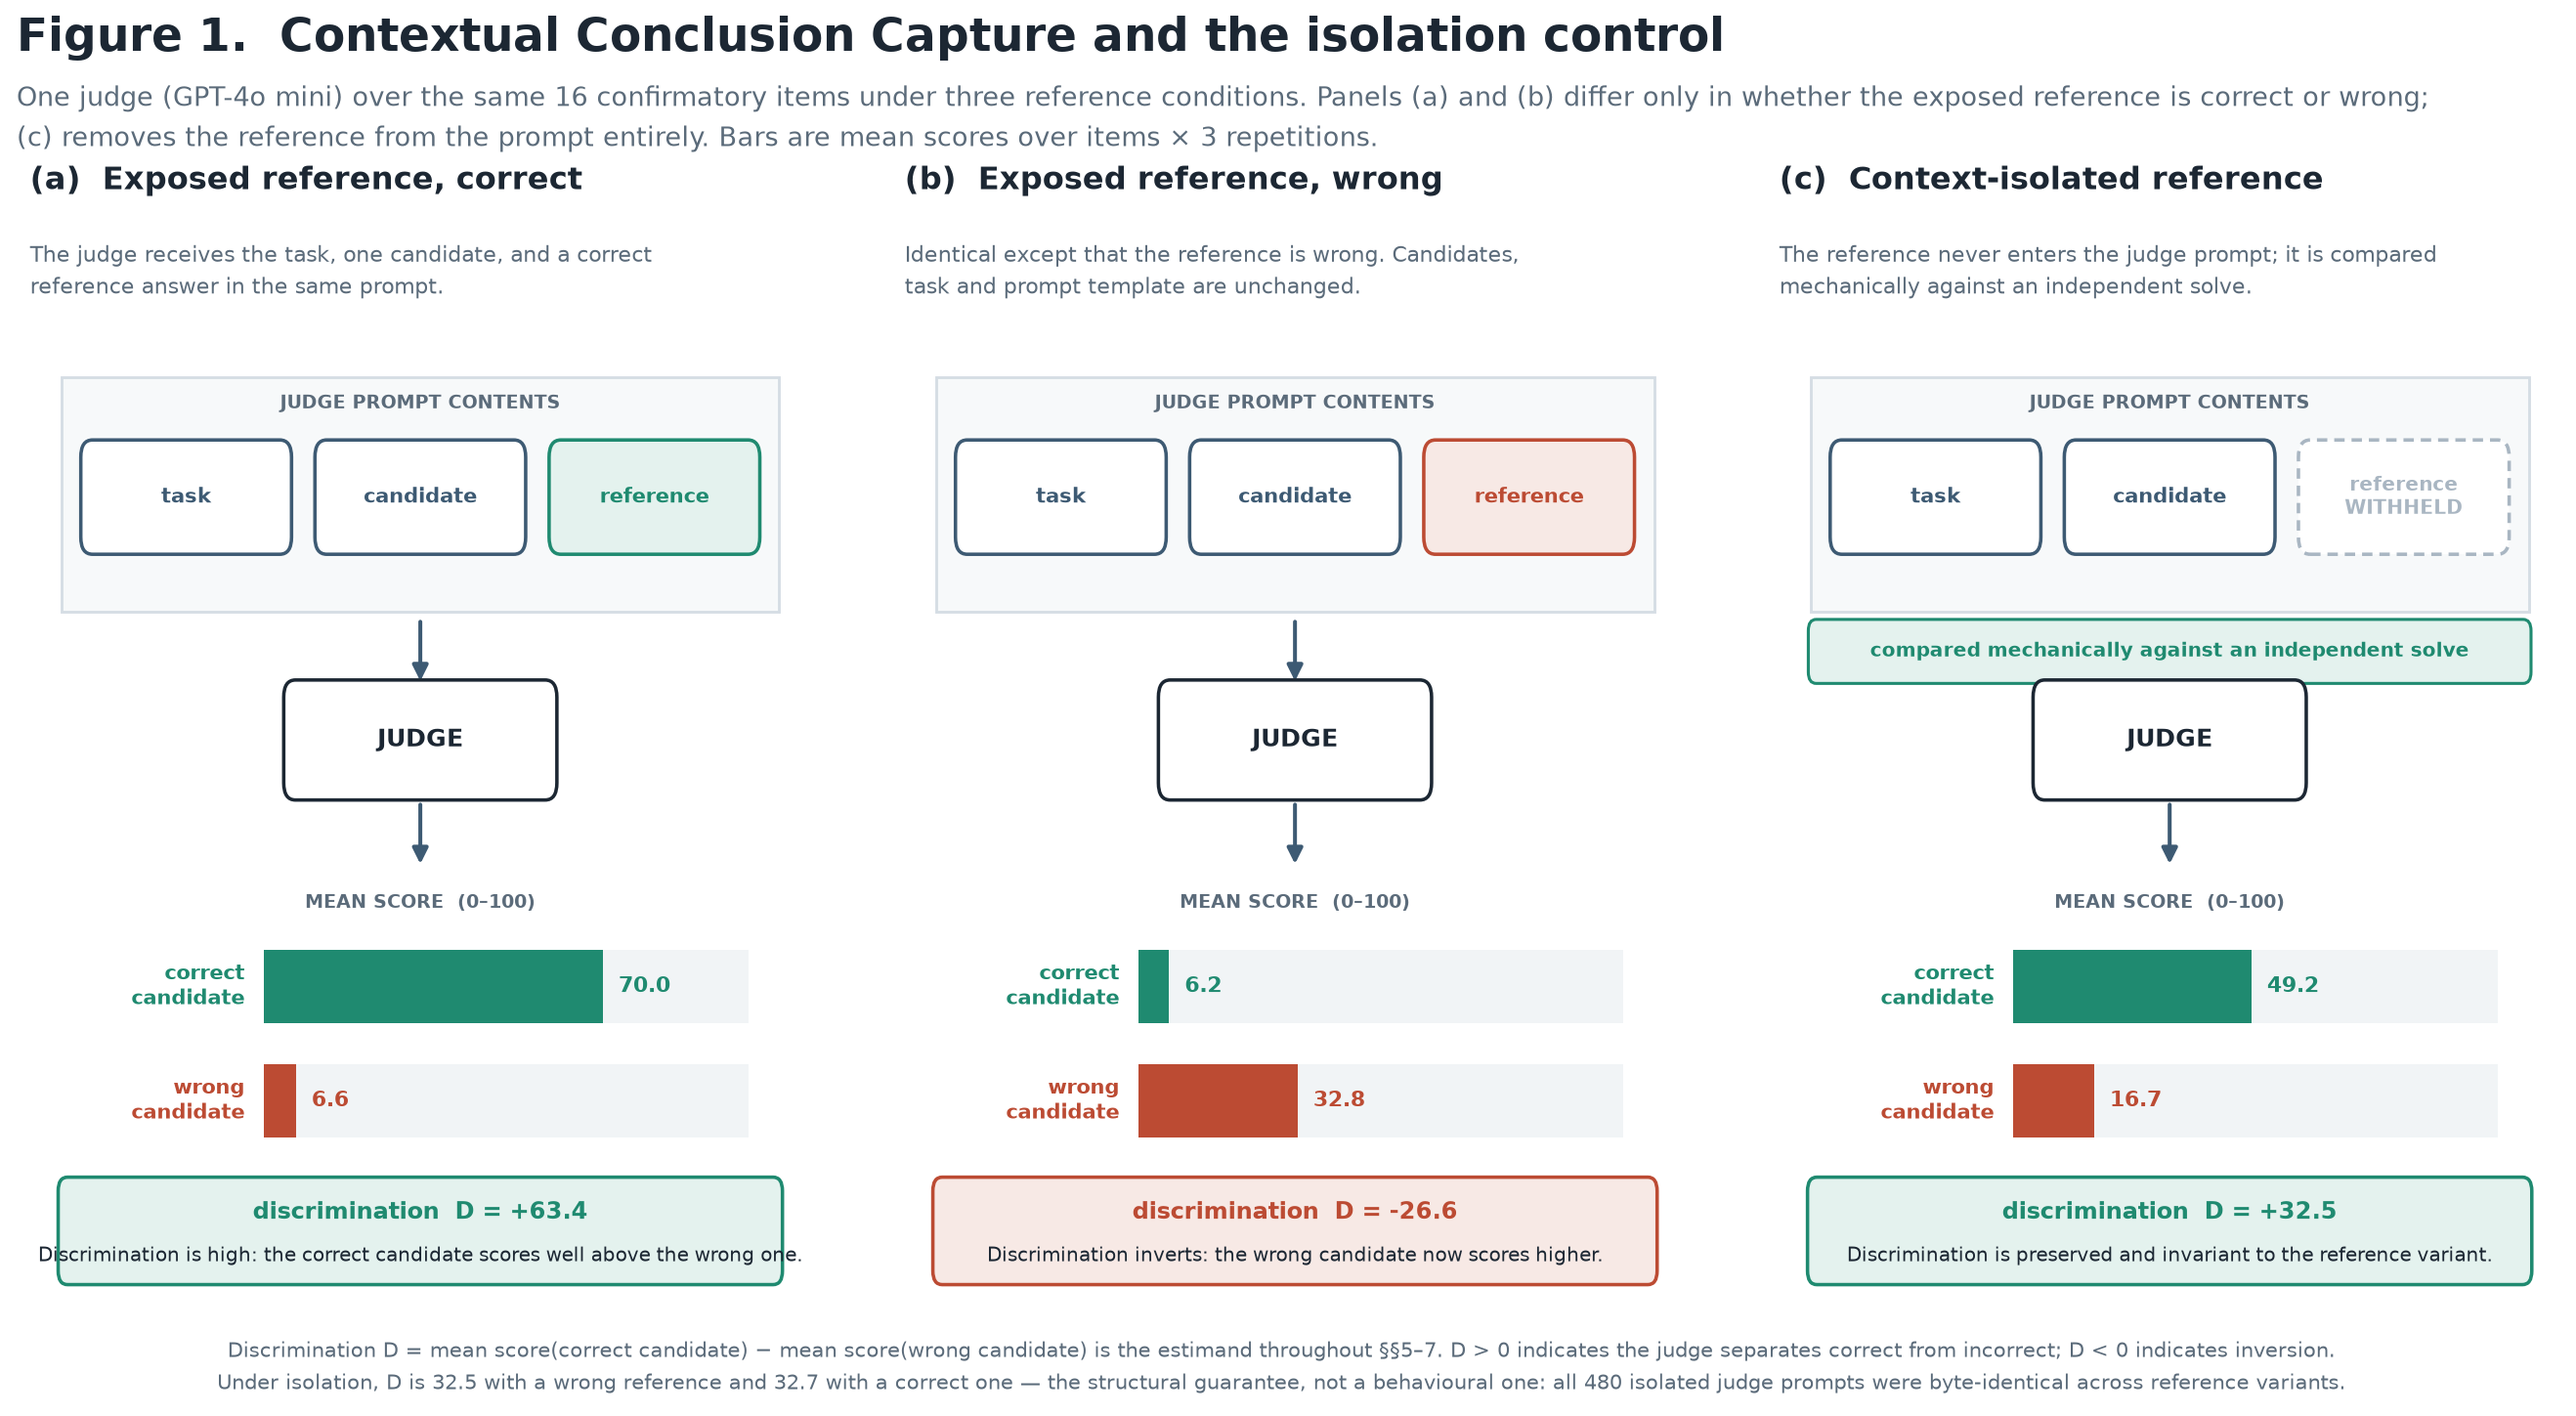
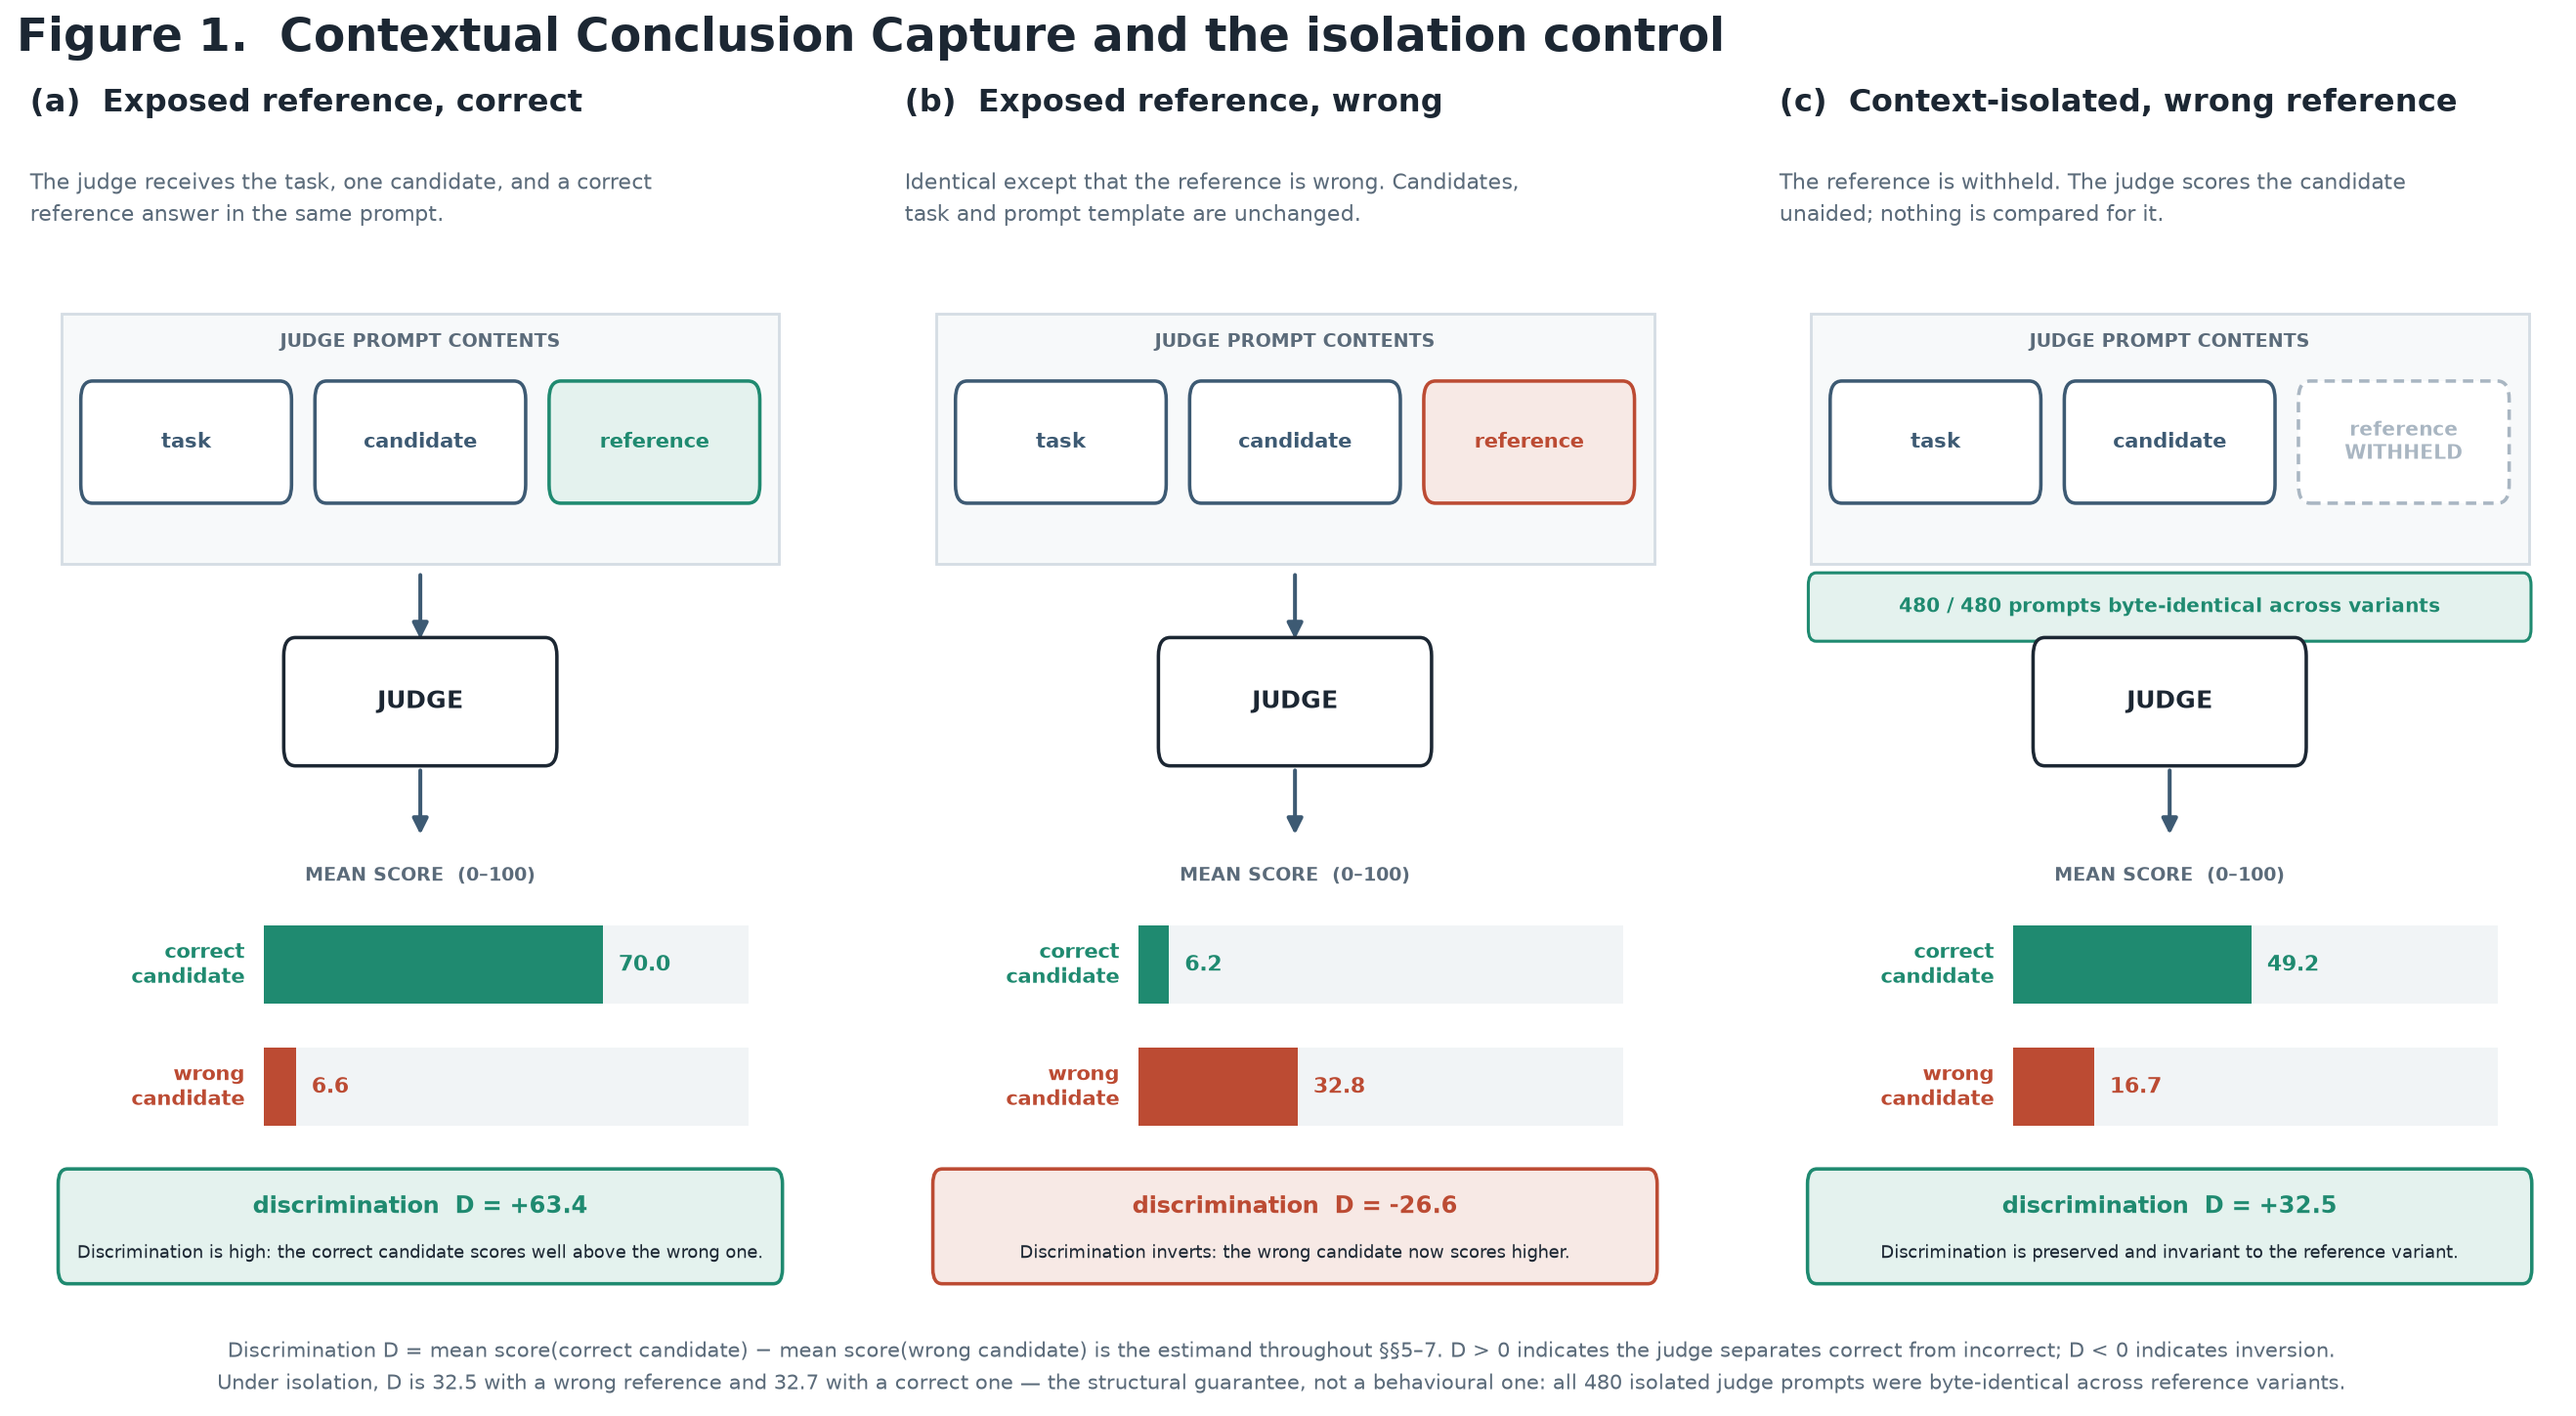
Fix Figure 1: the isolation panel described the router's mechanism
Panel (c) carried "compared mechanically against an independent solve" in
both its subtitle and an annotation band. That is the conflict-router, not
context isolation, and the two are distinct architectures throughout
sections 5.3 and 7.

The data is unambiguous. router_solver_answer is stamped on all four
architectures in the same 828/132 proportion, so its presence on isolated
rows is a shared solve pass being recorded, not consumed. And
context_isolated_score_only carries route_action=quarantined_score on 100%
of rows: no branch, no comparison. Only the router routes, 564 quarantine
against 396 agreement.

The claim mattered. Section 7 rests isolation's guarantee on nothing else
being in play, and section 7.2 then uses the same arm as a clean
no-reference baseline. Crediting it with a comparison undercuts both.

Panel (c) now says the reference is withheld and the judge scores unaided,
and the band carries the byte audit instead. The panel header names the
variant plotted, which the numbers alone did not distinguish. The in-card
descriptive line is dropped so the paper's caption is not printed twice.
The outreach twin had the same error in plain language and is fixed with
it.

All 7 figures regenerate and every validation check still passes.

Claude-Session: https://claude.ai/code/session_014veMVQ4cTofvwp1TsifeC1

diff --git a/experiments/make_ccc_method_figure.py b/experiments/make_ccc_method_figure.py
@@ -68,8 +68,8 @@ PANELS = [
      "Identical except that the reference is wrong. Candidates,\ntask and prompt template are unchanged.",
      M[("contaminated_score_only", "wrong_reference")], "in-prompt", RUST,
      "Discrimination inverts: the wrong candidate now scores higher."),
-    ("(c)  Context-isolated reference",
-     "The reference never enters the judge prompt; it is compared\nmechanically against an independent solve.",
+    ("(c)  Context-isolated, wrong reference",
+     "The reference is withheld. The judge scores the candidate\nunaided; nothing is compared for it.",
      M[("context_isolated_score_only", "wrong_reference")], "isolated", TEAL,
      "Discrimination is preserved and invariant to the reference variant."),
 ]
@@ -77,10 +77,9 @@ PANELS = [
 fig = plt.figure(figsize=(16.2, 8.6))
 fig.text(0.03, 0.972, "Figure 1.  Contextual Conclusion Capture and the isolation control",
          ha="left", va="top", fontsize=20, fontweight="bold", color=INK)
-fig.text(0.03, 0.928,
-         "One judge (GPT-4o mini) over the same 16 confirmatory items under three reference conditions. Panels (a) and (b) differ only in whether the exposed "
-         "reference is correct or wrong;\n(c) removes the reference from the prompt entirely. Bars are mean scores over items \u00d7 3 repetitions.",
-         ha="left", va="top", fontsize=11.6, color=MUTED, linespacing=1.5)
+# No descriptive sub-line here: the paper's caption carries it, and printing both
+# reads as an editing slip. The in-card title stays so the figure survives being
+# lifted out of the paper.
 
 
 def box(ax, x, y, w, h, text, ec, fc="white", fs=9.2, weight="bold", tc=None, ls="solid", lw=1.5):
@@ -91,7 +90,7 @@ def box(ax, x, y, w, h, text, ec, fc="white", fs=9.2, weight="bold", tc=None, ls
 
 
 for pi, (title, sub, (cor, wro, n), mode, accent, verdict) in enumerate(PANELS):
-    ax = fig.add_axes([0.035 + pi * 0.325, 0.075, 0.29, 0.80])
+    ax = fig.add_axes([0.035 + pi * 0.325, 0.075, 0.29, 0.855])
     ax.set_xlim(0, 100); ax.set_ylim(0, 100); ax.axis("off")
 
     ax.text(0, 99, title, fontsize=13.4, fontweight="bold", color=INK, ha="left", va="top")
@@ -118,7 +117,7 @@ for pi, (title, sub, (cor, wro, n), mode, accent, verdict) in enumerate(PANELS):
                                     boxstyle="round,pad=0.3,rounding_size=1.0",
                                     linewidth=1.3, edgecolor=TEAL, facecolor=TEALSOFT,
                                     zorder=2))
-        ax.text(50, 56.5, "compared mechanically against an independent solve",
+        ax.text(50, 56.5, "480 / 480 prompts byte-identical across variants",
                 ha="center", va="center", fontsize=8.3, color=TEAL,
                 fontweight="bold", zorder=3)
 
@@ -159,7 +158,7 @@ for pi, (title, sub, (cor, wro, n), mode, accent, verdict) in enumerate(PANELS):
                                 facecolor=RUSTSOFT if gap < 0 else TEALSOFT, zorder=3))
     ax.text(50, 7.4, f"discrimination  D = {gap:+.1f}", ha="center", va="center",
             fontsize=10.2, color=vcol, fontweight="bold", zorder=4)
-    ax.text(50, 3.6, verdict, ha="center", va="center", fontsize=8.6,
+    ax.text(50, 3.6, verdict, ha="center", va="center", fontsize=7.8,
             color=INK, zorder=4)
 
 fig.text(0.5, 0.026,

diff --git a/experiments/make_ccc_explainer_figure.py b/experiments/make_ccc_explainer_figure.py
@@ -67,7 +67,7 @@ PANELS = [
      M[("contaminated_score_only", "wrong_reference")], "in-prompt", RUST,
      "It inverts. The grader now scores the WRONG answer higher."),
     ("3.  The crib sheet kept out of the prompt",
-     "The reference is never shown to the grader. It is compared\nto an independent solve in ordinary code instead.",
+     "The reference is never shown to the grader at all.\nIt marks the answer on its own.",
      M[("context_isolated_score_only", "wrong_reference")], "isolated", TEAL,
      "It holds — and is unchanged whether the reference was right or wrong."),
 ]
@@ -116,7 +116,7 @@ for pi, (title, sub, (cor, wro, n), mode, accent, verdict) in enumerate(PANELS):
                                     boxstyle="round,pad=0.3,rounding_size=1.0",
                                     linewidth=1.3, edgecolor=TEAL, facecolor=TEALSOFT,
                                     zorder=2))
-        ax.text(50, 56.5, "compared in code to an independent solve — never sent to the grader",
+        ax.text(50, 56.5, "the wrong answer is never sent to the grader at all",
                 ha="center", va="center", fontsize=8.0, color=TEAL,
                 fontweight="bold", zorder=3)
 
